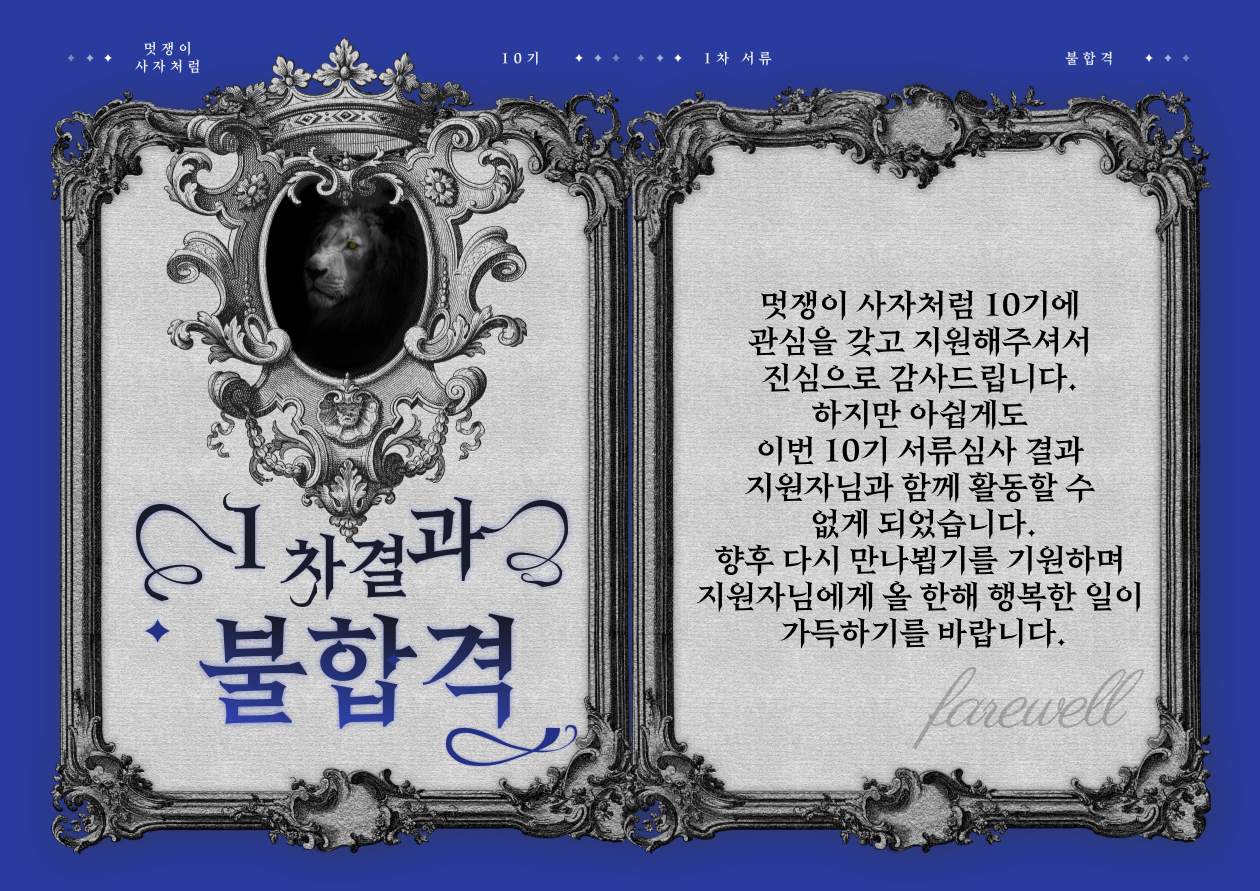
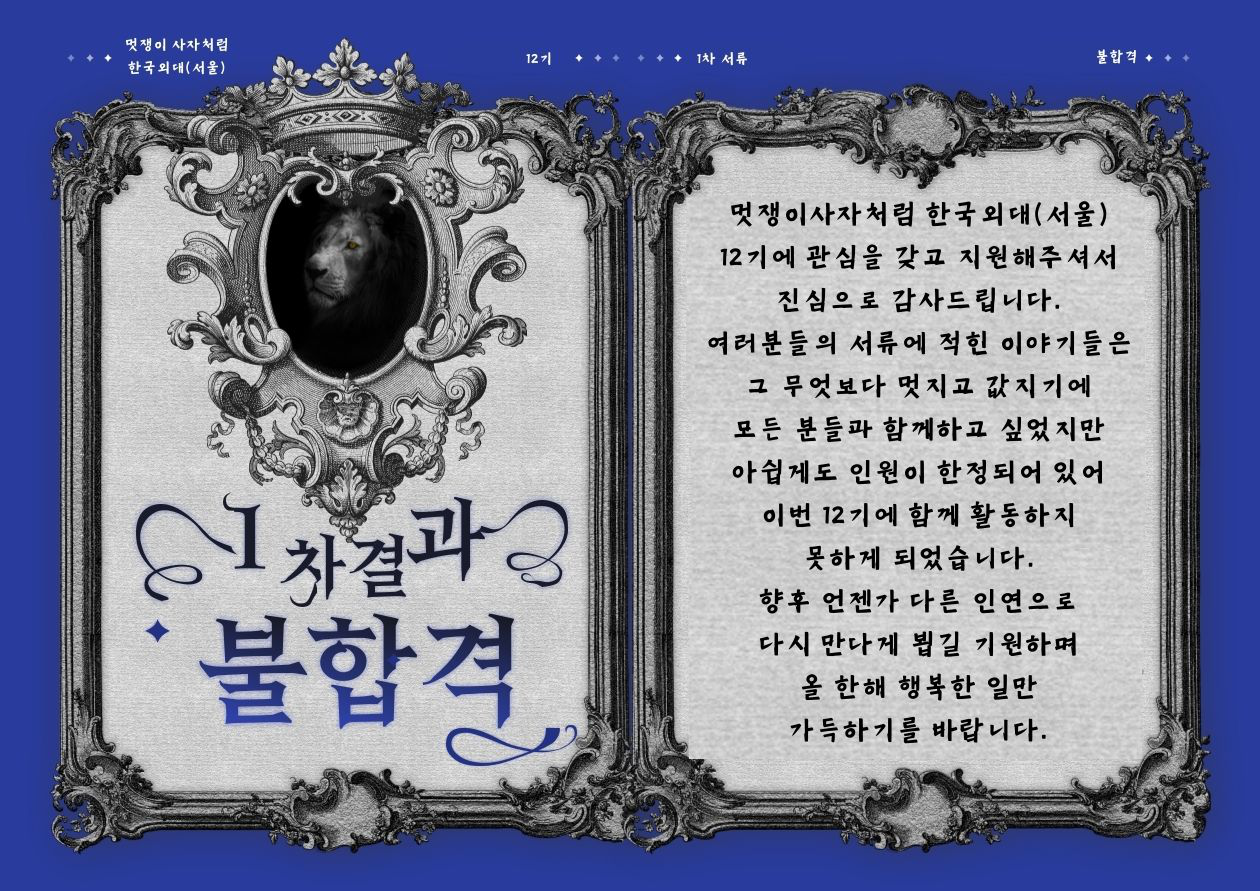
init

diff --git a/account/templates/privacy-policy.html b/account/templates/privacy-policy.html
@@ -20,7 +20,7 @@
                 <div class="col-lg-12">
                     <div class="text-container">
                         <h3>[개인정보 수집·이용 동의서]</h3>
-                        <p>주식회사 멋쟁이 사자처럼은 「정보통신망 이용촉진 및 정보보호에 관한 법률」 및 「개인정보보호법」 등 관련 법령상의 개인정보보호 규정을 준수하여 「22년 멋쟁이사자처럼 10기 모집」 참가자의 개인정보 및 권익을 보호하고, 개인정보와 관련한 참가자의 고충을 원활하게 처리할 수 있도록 다음과 같은 개인정보 처리방침을 두고 있습니다.</p>
+                        <p>주식회사 멋쟁이 사자처럼은 「정보통신망 이용촉진 및 정보보호에 관한 법률」 및 「개인정보보호법」 등 관련 법령상의 개인정보보호 규정을 준수하여 「24년 멋쟁이사자처럼 12기 모집」 참가자의 개인정보 및 권익을 보호하고, 개인정보와 관련한 참가자의 고충을 원활하게 처리할 수 있도록 다음과 같은 개인정보 처리방침을 두고 있습니다.</p>
                         <p>가. 개인 정보의 수집· 이용에 관한 사항</p>
                         <div class="row">
                             <div class="col-md-6">
@@ -61,7 +61,7 @@
                                     <li class="media">
                                         <i class="fas fa-square"></i>
                                         <div class="media-body">제공받는 자의 목적<br>
-                                            ‘22년 멋쟁이사자처럼 10기 모집’ 진행 및 운영, 참가자 관리, 마케팅 활용</div>
+                                            ‘24년 멋쟁이사자처럼 12기 모집’ 진행 및 운영, 참가자 관리, 마케팅 활용</div>
                                     </li>
                                     <li class="media">
                                         <i class="fas fa-square"></i>

diff --git a/apply/templates/update.html b/apply/templates/update.html
@@ -26,13 +26,13 @@
                             {%csrf_token%}
                             <br>
                             <div class="form-group">
-                                1. 다양한 IT동아리 중에서 멋쟁이사자처럼 대학 10기를 선택하고 지원하시게 된 이유를 작성해주세요. (500자 이내)
+                                1. 다양한 IT동아리 중에서 멋쟁이사자처럼 대학 12기를 선택하고 지원하시게 된 이유를 작성해주세요. (500자 이내)
                                 <textarea name="q1" class="form-control-input" rows="10">{{apply.first_q}}</textarea>
                                 <div class="help-block with-errors"></div>
                             </div>
                             <br>
                             <div class="form-group">
-                                2-1. 멋쟁이사자처럼 대학 10기부터 기초 개발 스터디는 동일하게 진행되지만 이후에 기획/디자인 파트와 개발 파트 중 선택하여 진행하게 됩니다.<br>어느 파트에 지원하시나요?                                    
+                                2-1. 멋쟁이사자처럼 대학 12기부터 기초 개발 스터디는 동일하게 진행되지만 이후에 기획/디자인 파트와 개발 파트 중 선택하여 진행하게 됩니다.<br>어느 파트에 지원하시나요?                                    
                                 {% if apply.category == 'P/D' %}
                                 <select style="width:300px" name="category" class="form-control-select" id="spassword">
                                     <option value="P/D" selected>기획/디자인</option>

diff --git a/apply/templates/create.html b/apply/templates/create.html
@@ -25,13 +25,13 @@
                             {%csrf_token%}
                             <br>
                             <div class="form-group">
-                                1. 다양한 IT동아리 중에서 멋쟁이사자처럼 대학 10기를 선택하고 지원하시게 된 이유를 작성해주세요. (500자 이내)
+                                1. 다양한 IT동아리 중에서 멋쟁이사자처럼 대학 12기를 선택하고 지원하시게 된 이유를 작성해주세요. (500자 이내)
                                 <textarea name="q1" class="form-control-input" rows="10"></textarea>
                                 <div class="help-block with-errors"></div>
                             </div>
                             <br>
                             <div class="form-group">
-                                2-1. 멋쟁이사자처럼 대학 10기부터 기초 개발 스터디는 동일하게 진행되지만 이후에 기획/디자인 파트와 개발 파트 중 선택하여 진행하게 됩니다.<br>어느 파트에 지원하시나요?
+                                2-1. 멋쟁이사자처럼 대학 12기부터 기초 개발 스터디는 동일하게 진행되지만 이후에 기획/디자인 파트와 개발 파트 중 선택하여 진행하게 됩니다.<br>어느 파트에 지원하시나요?
                                 <select style="width:180px;" name="category" class="form-control-select" id="spassword">
                                     <option value="P/D">기획/디자인</option>
                                     <option value="FE">프론트엔드</option>

diff --git a/apply/templates/mydetail.html b/apply/templates/mydetail.html
@@ -19,12 +19,12 @@
                 <div class="row">
                     <div class="col-lg-12">
                         <div class="text-container">
-                            <h4>1. 다양한 IT동아리 중에서 멋쟁이사자처럼 대학 10기를 선택하고 지원하시게 된 이유를 작성해주세요. (500자 이내)</h4>
+                            <h4>1. 다양한 IT동아리 중에서 멋쟁이사자처럼 대학 12기를 선택하고 지원하시게 된 이유를 작성해주세요. (500자 이내)</h4>
                             <div class="text-container dark">
                                 <p class="testimonial-text">{{apply.first_q}}</p>
                             </div> <!-- end of text container -->
 
-                            <h4>2-1.  멋쟁이사자처럼 대학 10기부터 기초 개발 스터디는 동일하게 진행되지만 이후에 기획/디자인 파트와 개발 파트 중 선택하여 진행하게 됩니다.
+                            <h4>2-1.  멋쟁이사자처럼 대학 12기부터 기초 개발 스터디는 동일하게 진행되지만 이후에 기획/디자인 파트와 개발 파트 중 선택하여 진행하게 됩니다.
 어느 파트에 지원하시나요?</h4>
                             <div class="text-container dark">
                                 {% if apply.category == 'P/D' %}<p class="testimonial-text">기획 / 디자인</p>
